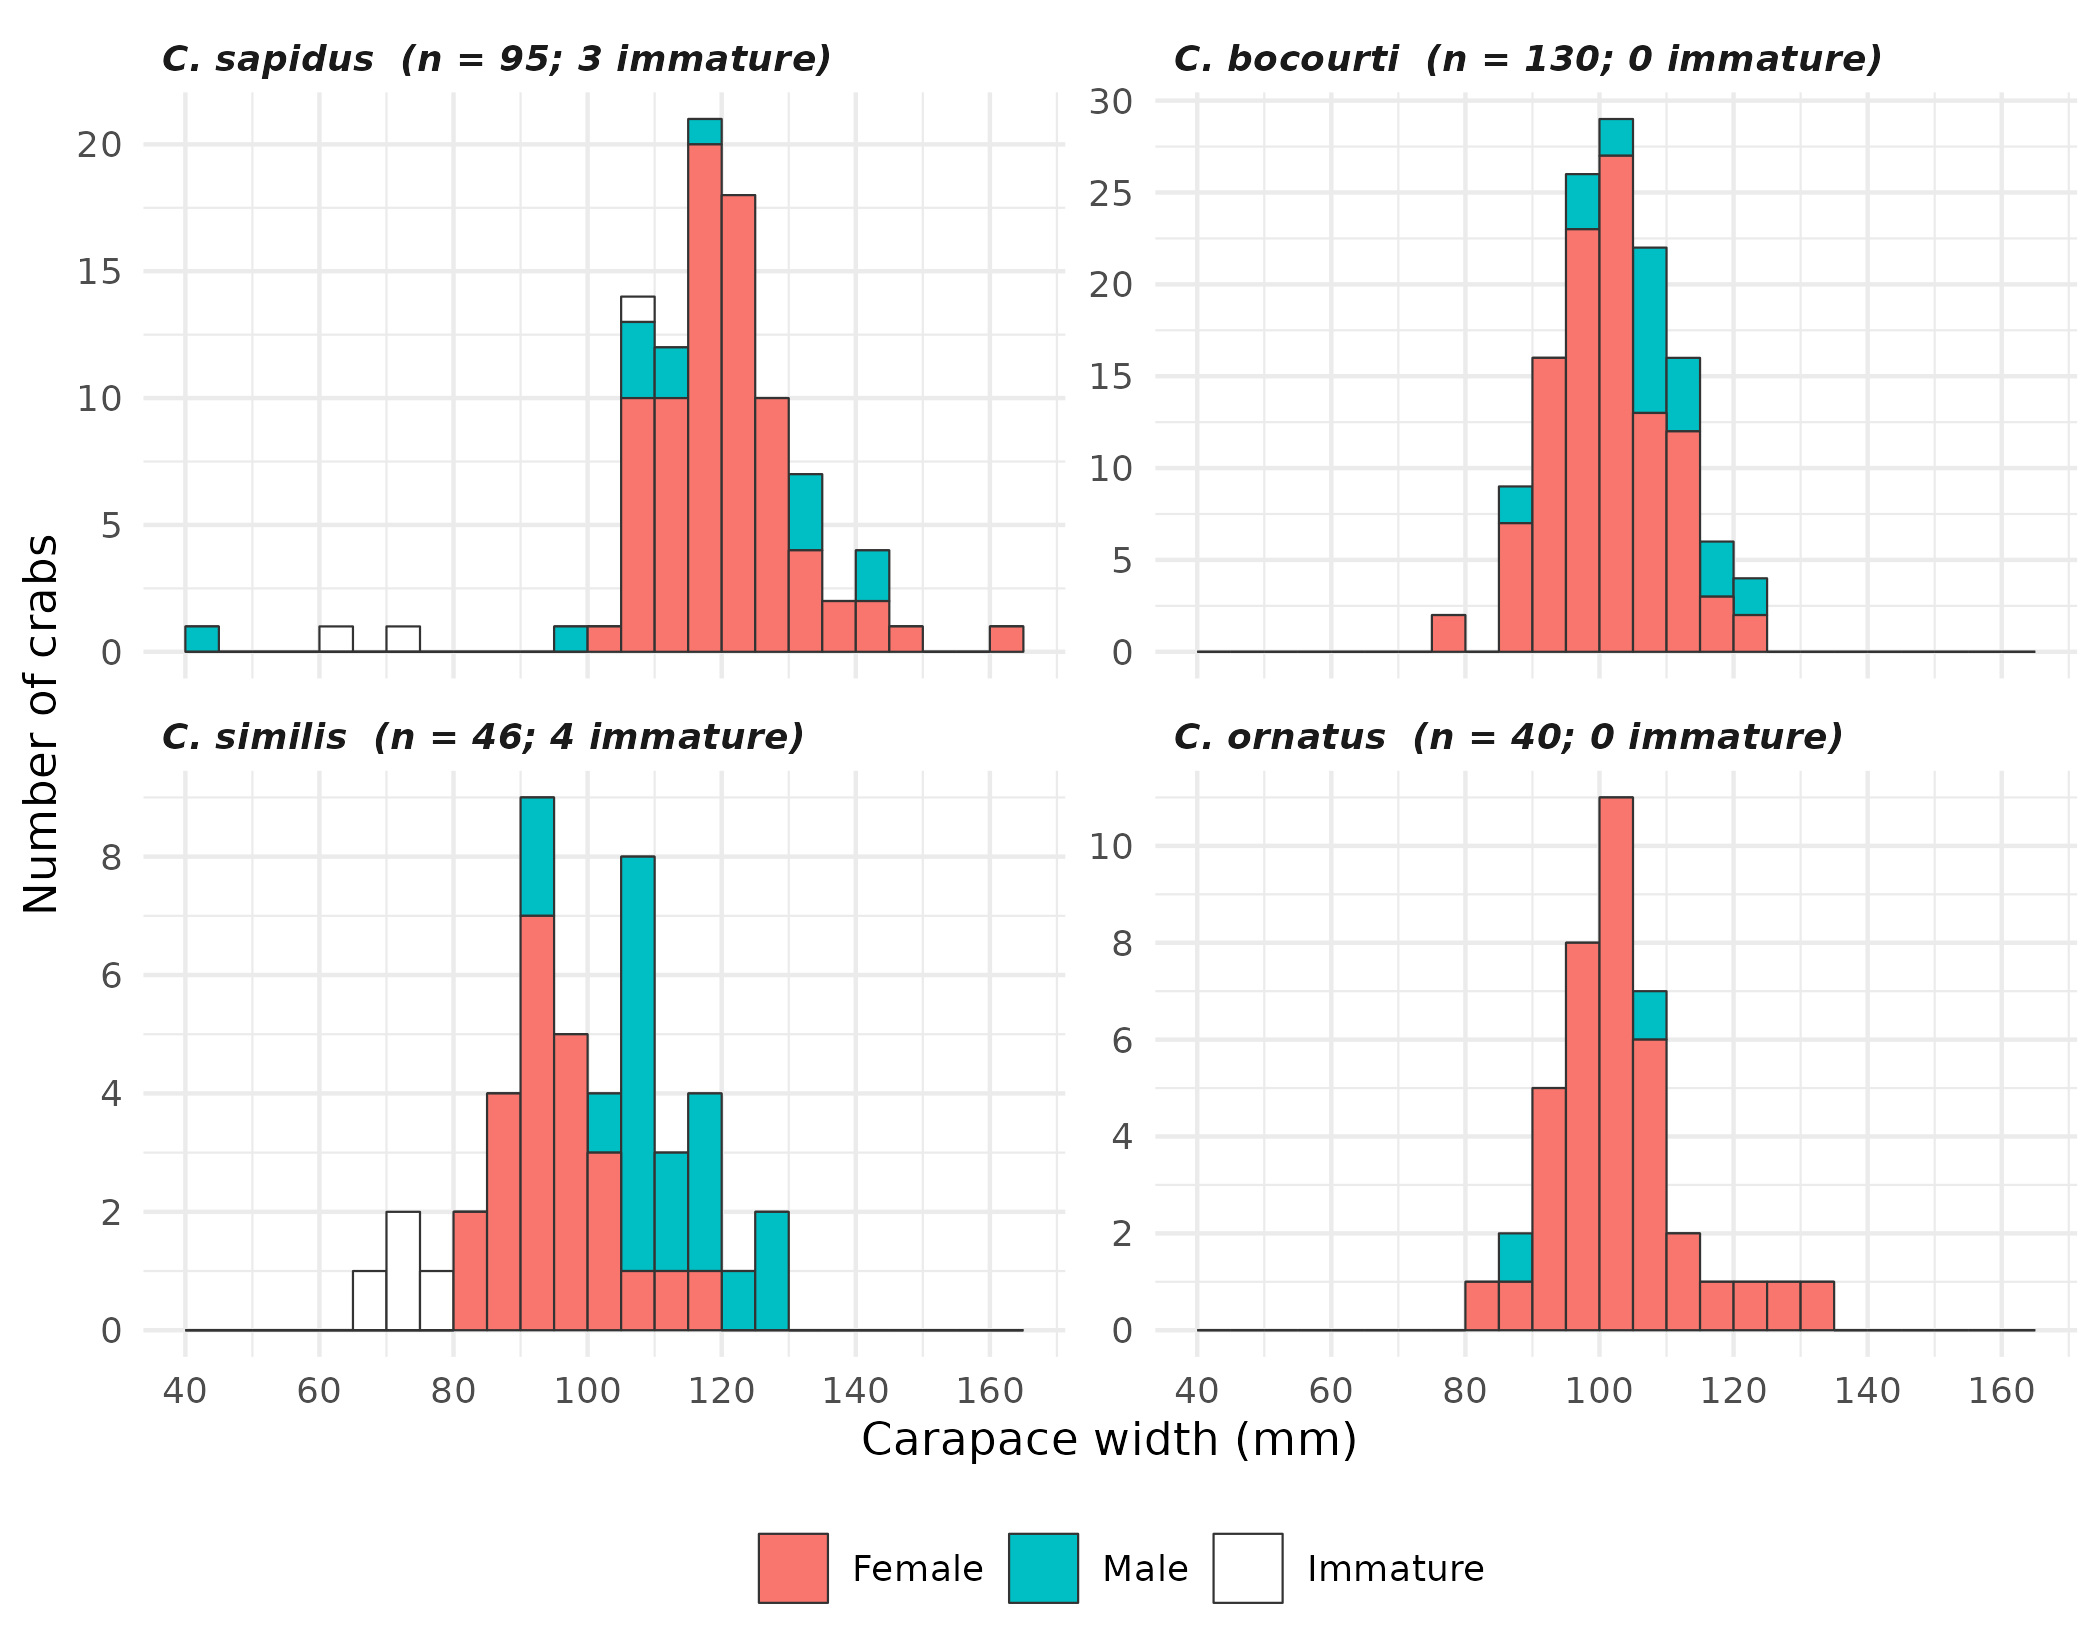
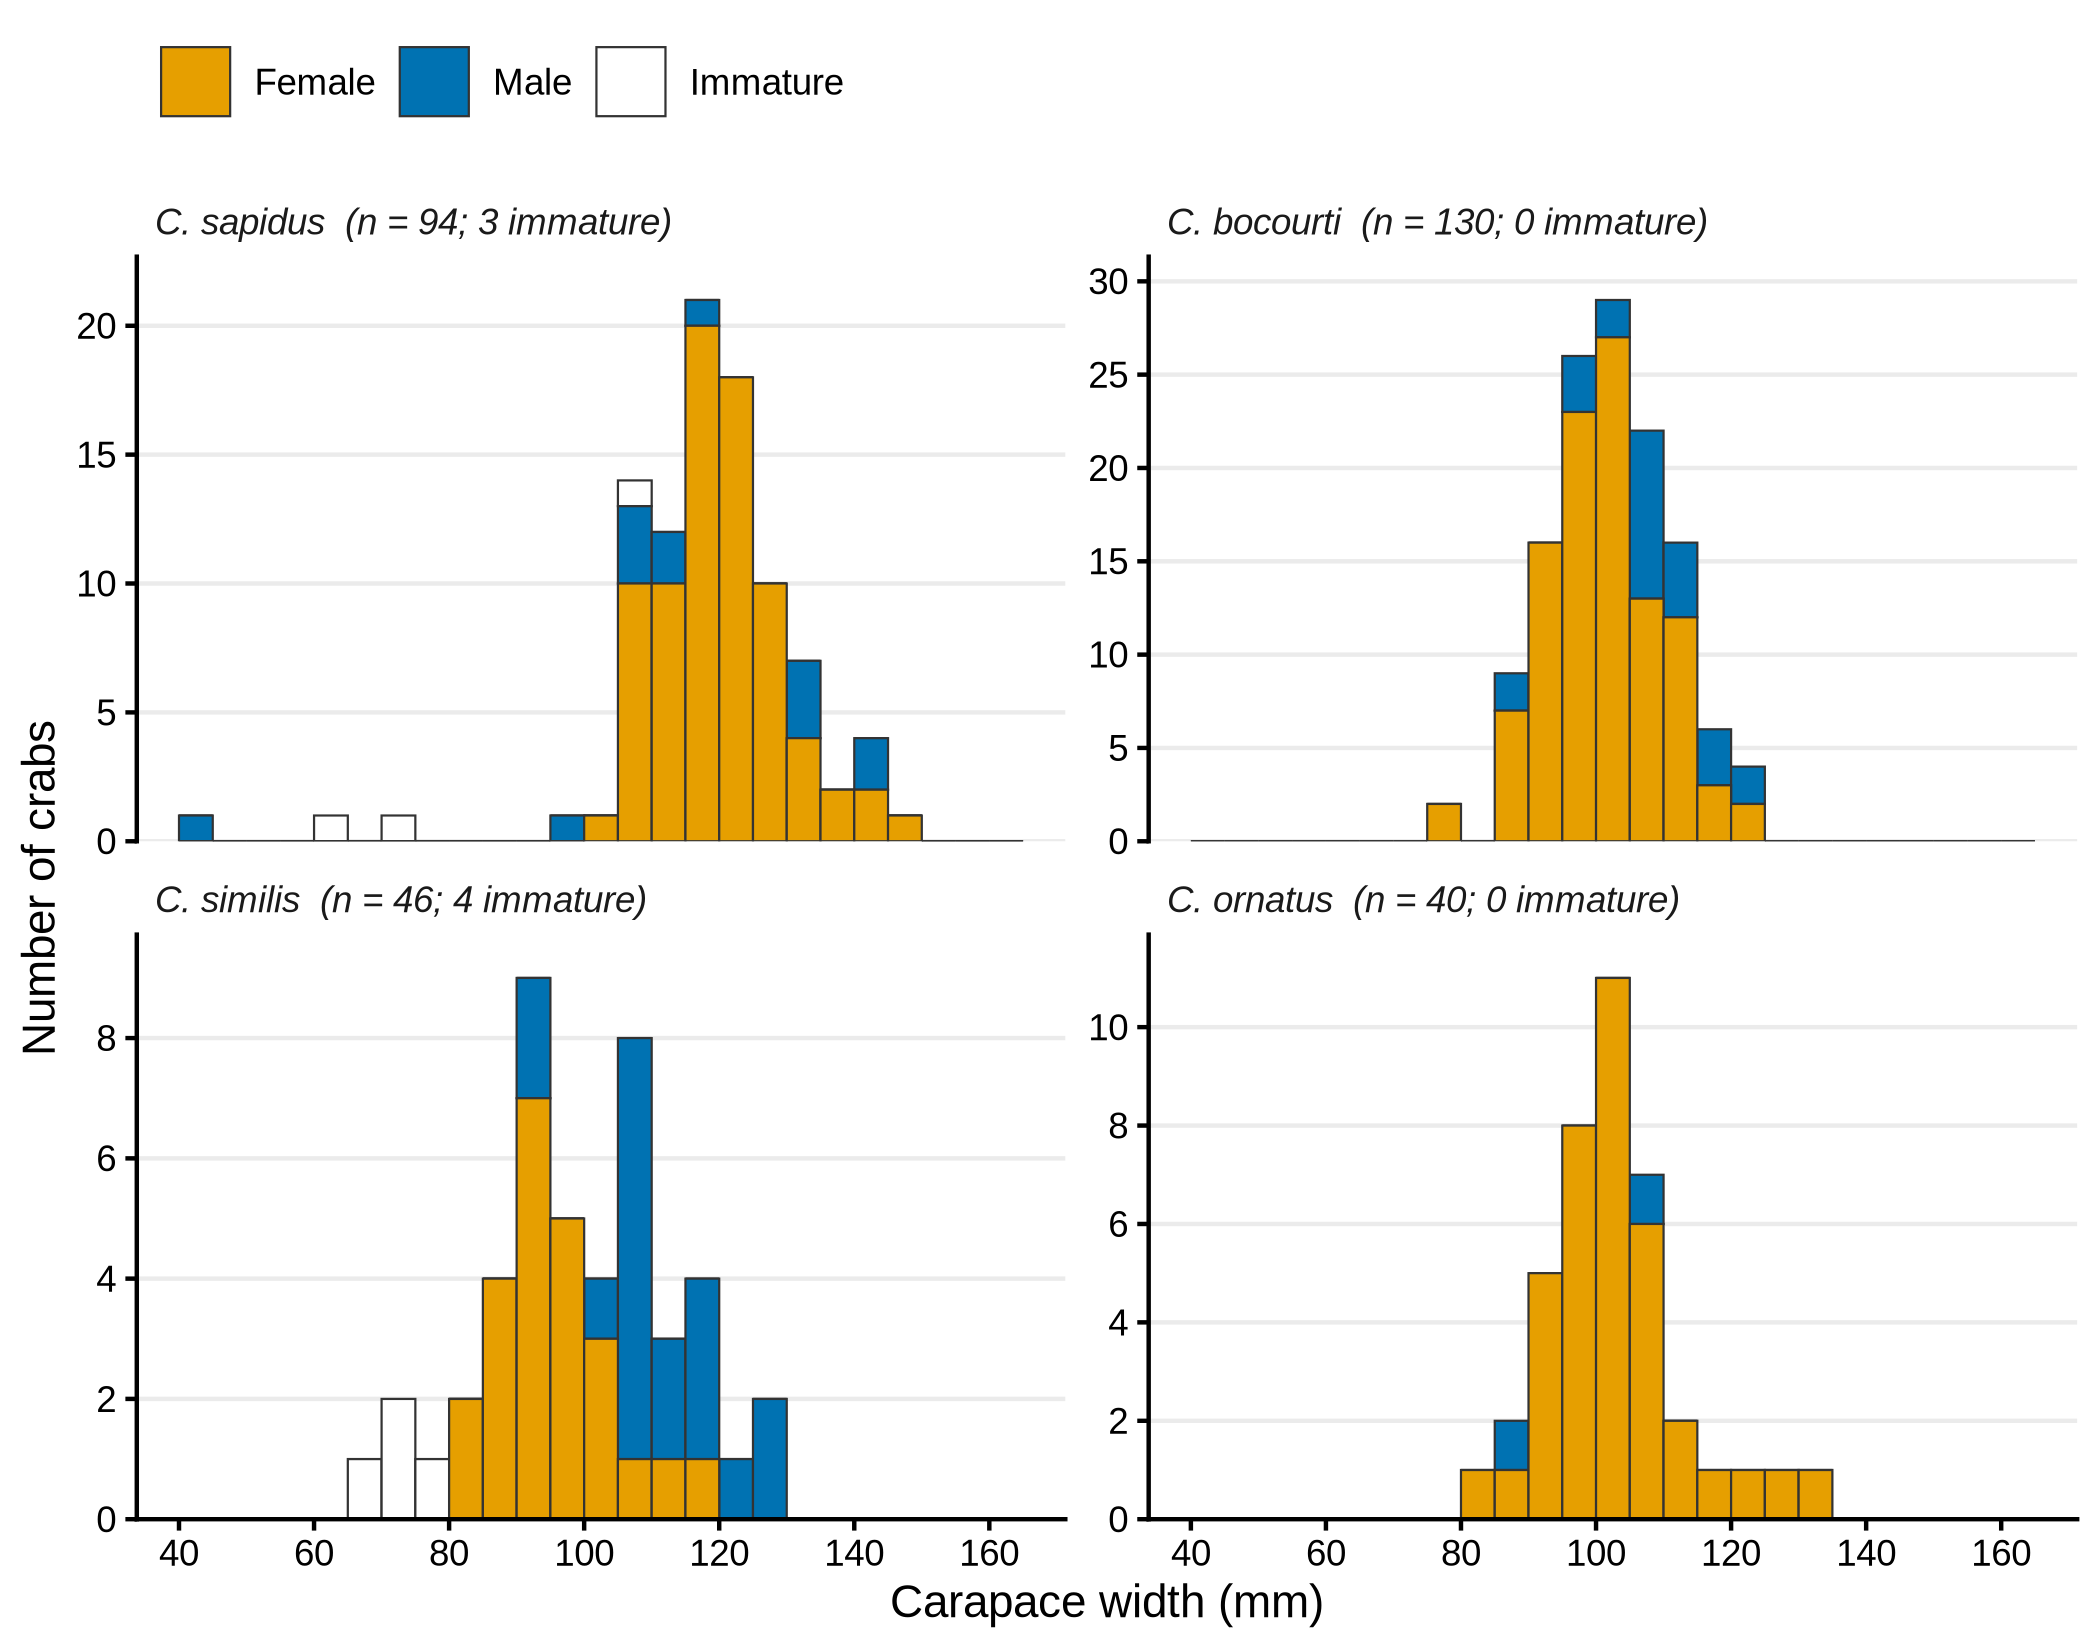
Blank CR306's recorded width; refit C. sapidus size model without random intercept
- data/clean: CR306's spine width (160.89 mm) was a recording error and
  is now blank; size_all_measured_crabs.csv, size_lmm_crabs_ge75mm.csv and
  weight_length_crabs.csv rebuilt (no other derived file changes)
- size_analysis.R: for C. sapidus the station-survey random intercept is
  estimated at zero (LRT p = 0.95) and the df approximations are unstable,
  so the final model is fitted without it; C. bocourti unchanged
- figures/Figure_4_size_frequency.png redrawn (C. sapidus n = 94)
- README notes updated

diff --git a/README.md b/README.md
@@ -116,6 +116,7 @@ Six females were not dissected because field time ran out; they are retained in 
 Seven crabs were recorded as immature; maturity was not recorded for 63 crabs.
 Sonde readings are missing for AP and IM on 20 Jan 2021, pH for DY on 20 Oct 2020, and the whole cast for BC on 15 Oct 2021 (see qc_flags).
 Raw field datasheets are available from the corresponding author on request.
-CR306 (C. sapidus female, 14 Oct 2021, AP) has a recorded spine-to-spine width of 160.89 mm, which is implausible for its 52.2 mm carapace length and 76.1 g weight; the weight–length script sets this width to NA and keeps the crab's length and weight.
+CR306 (C. sapidus female, 14 Oct 2021, AP): the recorded spine-to-spine width (160.89 mm) was a recording error (the crab's 52.2 mm carapace length, 88.15 mm base width and 76.1 g weight indicate a width near 111 mm), so cw_spines_mm is blank for this crab in data/clean/ and every file built from it. Its other measurements are unchanged and used.
+In the C. sapidus size model (size_analysis.R) the station–survey random intercept is estimated at zero (LRT p = 0.95), so that species' model is fitted without it; C. bocourti keeps the mixed model.
 
 
